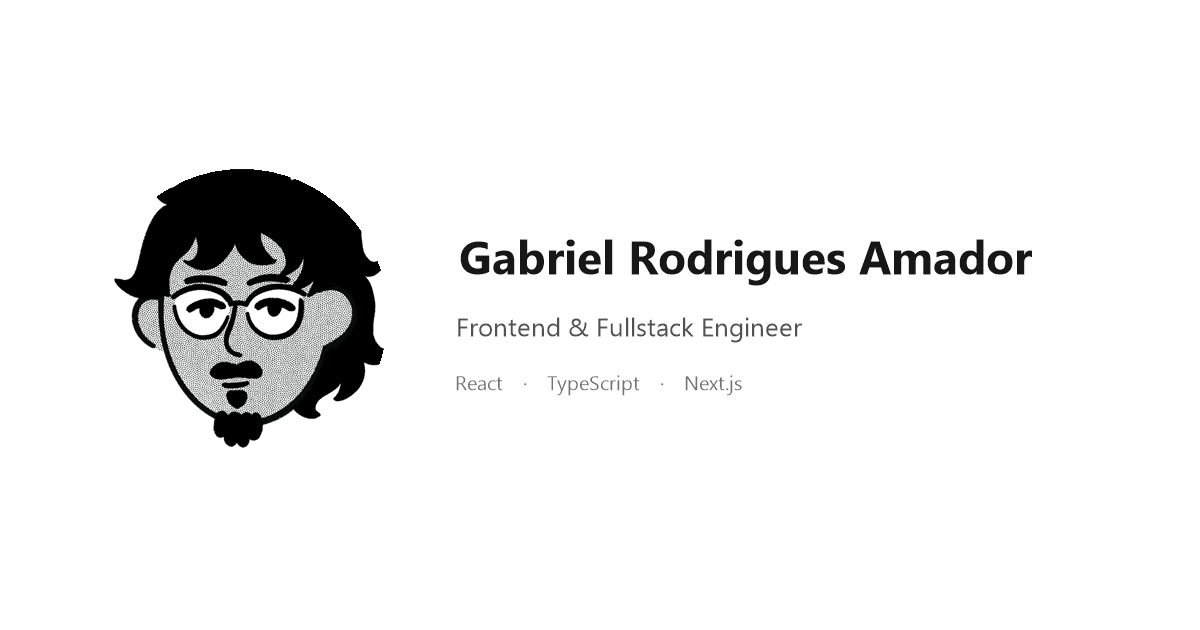
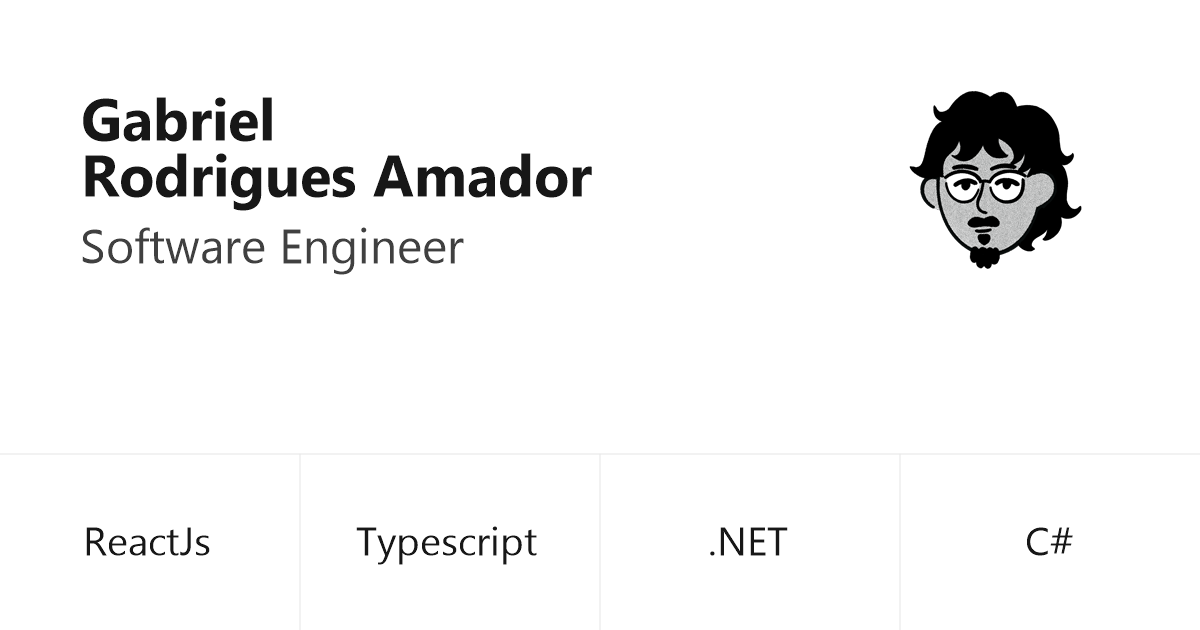
Update the Open Graph card and match the 404 header to the home page.
The share image uses the subtitle layout without a black backdrop, and the browser title uses the short name with the fullstack role.

diff --git a/src/components/portfolio/not-found-reveal-shell.tsx b/src/components/portfolio/not-found-reveal-shell.tsx
@@ -1,6 +1,7 @@
 "use client";
 
 import { useCallback, useState, type ReactNode } from "react";
+import type { ProfileHeader } from "@/lib/github/user-profile";
 import { NotionNotFoundIntro } from "./notion-not-found-intro";
 import { ProfileIdentity } from "./site-header";
 import { usePrefersReducedMotion } from "./use-typewriter";
@@ -10,7 +11,8 @@ const linkClass =
 
 export function NotFoundRevealShell({
   children,
-}: Readonly<{ children: ReactNode }>) {
+  profileHeader,
+}: Readonly<{ children: ReactNode; profileHeader: ProfileHeader }>) {
   const reduced = usePrefersReducedMotion();
   const [revealed, setRevealed] = useState(reduced);
   const handleReveal = useCallback(() => setRevealed(true), []);
@@ -19,7 +21,7 @@ export function NotFoundRevealShell({
     <div className="relative min-h-screen bg-white font-[family-name:var(--font-inter)] text-neutral-900">
       <div className="mx-auto w-full max-w-[620px] px-6 pt-20 pb-44">
         <header>
-          <ProfileIdentity />
+          <ProfileIdentity header={profileHeader} />
           {!revealed && <NotionNotFoundIntro onReveal={handleReveal} />}
         </header>
 

diff --git a/src/app/not-found.tsx b/src/app/not-found.tsx
@@ -1,18 +1,20 @@
 import type { Metadata } from "next";
 import { NotFoundPage } from "@/components/portfolio/NotFoundPage";
-import { SITE_NAME, SITE_URL } from "@/lib/site";
+import { fetchGitHubProfileHeader } from "@/lib/github/user-profile";
+import { SITE_TAB_NAME, SITE_URL } from "@/lib/site";
 
 export const metadata: Metadata = {
   title: "Page not found",
   description: "The page you requested does not exist on this site.",
   robots: { index: false, follow: true },
   openGraph: {
-    title: `Page not found · ${SITE_NAME}`,
+    title: `Page not found · ${SITE_TAB_NAME}`,
     url: `${SITE_URL}/404`,
     type: "website",
   },
 };
 
-export default function NotFound() {
-  return <NotFoundPage />;
+export default async function NotFound() {
+  const profileHeader = await fetchGitHubProfileHeader();
+  return <NotFoundPage profileHeader={profileHeader} />;
 }

diff --git a/src/lib/github/user-profile.ts b/src/lib/github/user-profile.ts
@@ -52,19 +52,19 @@ export async function fetchGitHubProfileHeader(): Promise<ProfileHeader> {
     );
     if (!response.ok) {
       return {
-        name: fallbackProfile.name,
+        name: fallbackProfile.displayName,
         subtitle: `${fallbackProfile.role} · ${fallbackProfile.location}`,
       };
     }
 
     const user = (await response.json()) as GitHubUser;
     return {
-      name: user.name?.trim() || user.login || fallbackProfile.name,
+      name: user.name?.trim() || user.login || fallbackProfile.displayName,
       subtitle: formatProfileSubtitle(user.bio, user.company, user.location),
     };
   } catch {
     return {
-      name: fallbackProfile.name,
+      name: fallbackProfile.displayName,
       subtitle: `${fallbackProfile.role} · ${fallbackProfile.location}`,
     };
   }

diff --git a/src/app/layout.tsx b/src/app/layout.tsx
@@ -11,6 +11,7 @@ import {
   SITE_KEYWORDS,
   SITE_NAME,
   SITE_OG_DESCRIPTION,
+  SITE_TAB_NAME,
   SITE_TITLE,
   SITE_URL,
 } from "@/lib/site";
@@ -24,7 +25,7 @@ export const metadata: Metadata = {
   metadataBase: new URL(SITE_URL),
   title: {
     default: SITE_TITLE,
-    template: `%s · ${SITE_NAME}`,
+    template: `%s · ${SITE_TAB_NAME}`,
   },
   description: SITE_DESCRIPTION,
   applicationName: SITE_NAME,
@@ -62,7 +63,7 @@ export const metadata: Metadata = {
         url: OG_IMAGE_PATH,
         width: OG_IMAGE_WIDTH,
         height: OG_IMAGE_HEIGHT,
-        alt: `${SITE_NAME} — Frontend & Fullstack Engineer`,
+        alt: `${SITE_NAME} — Software Engineer`,
       },
     ],
   },

diff --git a/src/components/portfolio/NotFoundPage.tsx b/src/components/portfolio/NotFoundPage.tsx
@@ -1,11 +1,14 @@
 "use client";
 
 import Link from "next/link";
+import type { ProfileHeader } from "@/lib/github/user-profile";
 import { NotFoundRevealShell, linkClass } from "./not-found-reveal-shell";
 
-export function NotFoundPage() {
+export function NotFoundPage({
+  profileHeader,
+}: Readonly<{ profileHeader: ProfileHeader }>) {
   return (
-    <NotFoundRevealShell>
+    <NotFoundRevealShell profileHeader={profileHeader}>
       <p className="text-[15px] leading-relaxed text-neutral-600">
         <span className="font-medium text-neutral-800">404</span>
         {" · "}

diff --git a/src/lib/site.ts b/src/lib/site.ts
@@ -3,8 +3,11 @@ export const SITE_URL =
 
 export const SITE_NAME = "Gabriel Rodrigues Amador";
 
-export const SITE_TITLE =
-  "Gabriel Rodrigues Amador — Frontend & Fullstack Engineer";
+export const SITE_TAB_NAME = "Gabriel Rodrigues";
+
+export const SITE_ROLE = "Fullstack Engineer ReactJs .NET";
+
+export const SITE_TITLE = `${SITE_TAB_NAME} — ${SITE_ROLE}`;
 
 export const SITE_DESCRIPTION =
   "Frontend and fullstack engineer in São Paulo, Brazil. I build scalable web products with React, TypeScript, and Next.js. Portfolio, experience, and selected open-source work.";

diff --git a/src/components/portfolio/site-header.tsx b/src/components/portfolio/site-header.tsx
@@ -13,7 +13,7 @@ const tabs: { id: SectionId; label: string }[] = [
 export function ProfileIdentity({
   header,
 }: Readonly<{ header?: ProfileHeader }>) {
-  const name = header?.name ?? profile.name;
+  const name = header?.name ?? profile.displayName;
   const subtitle =
     header?.subtitle ?? `${profile.role} · ${profile.location}`;
 

diff --git a/src/lib/portfolio-data.ts b/src/lib/portfolio-data.ts
@@ -2,7 +2,8 @@ import { LINKEDIN_PROFILE_URL } from "@/lib/profile-links";
 
 export const profile = {
   name: "Gabriel Rodrigues Amador",
-  role: "Frontend Developer",
+  displayName: "Gabriel Rodrigues",
+  role: "Fullstack Engineer ReactJs .NET",
   location: "São Paulo, Brazil",
   email: "amadorgabriel.dev@gmail.com",
   socials: [
